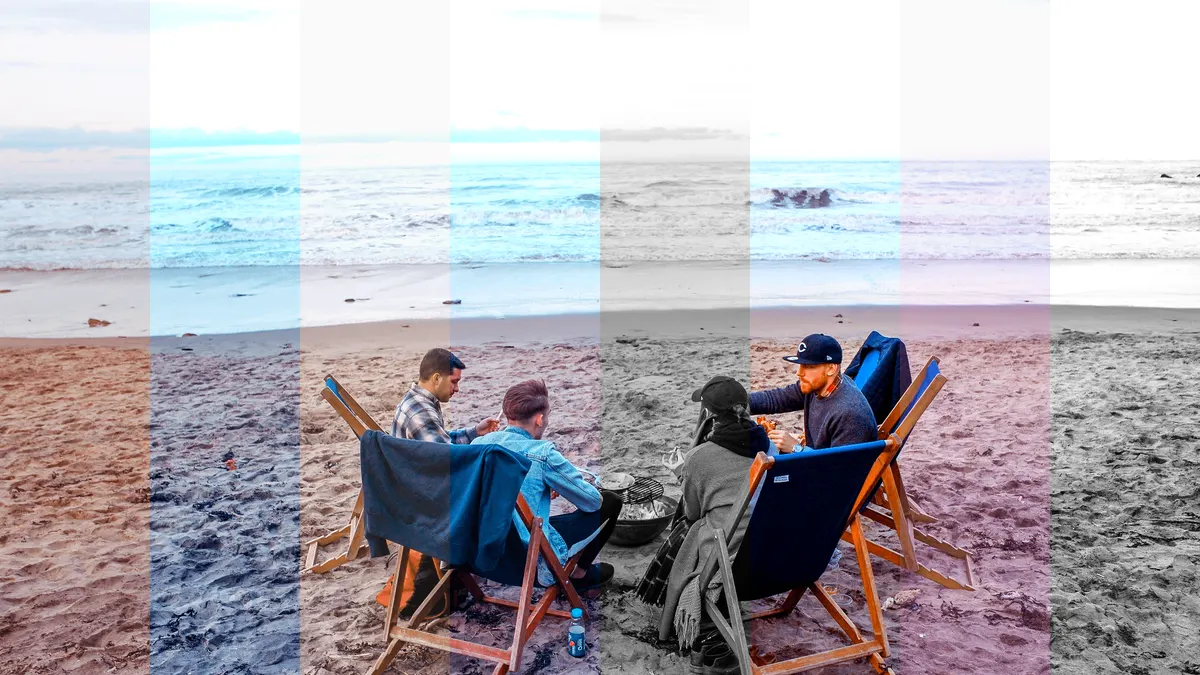
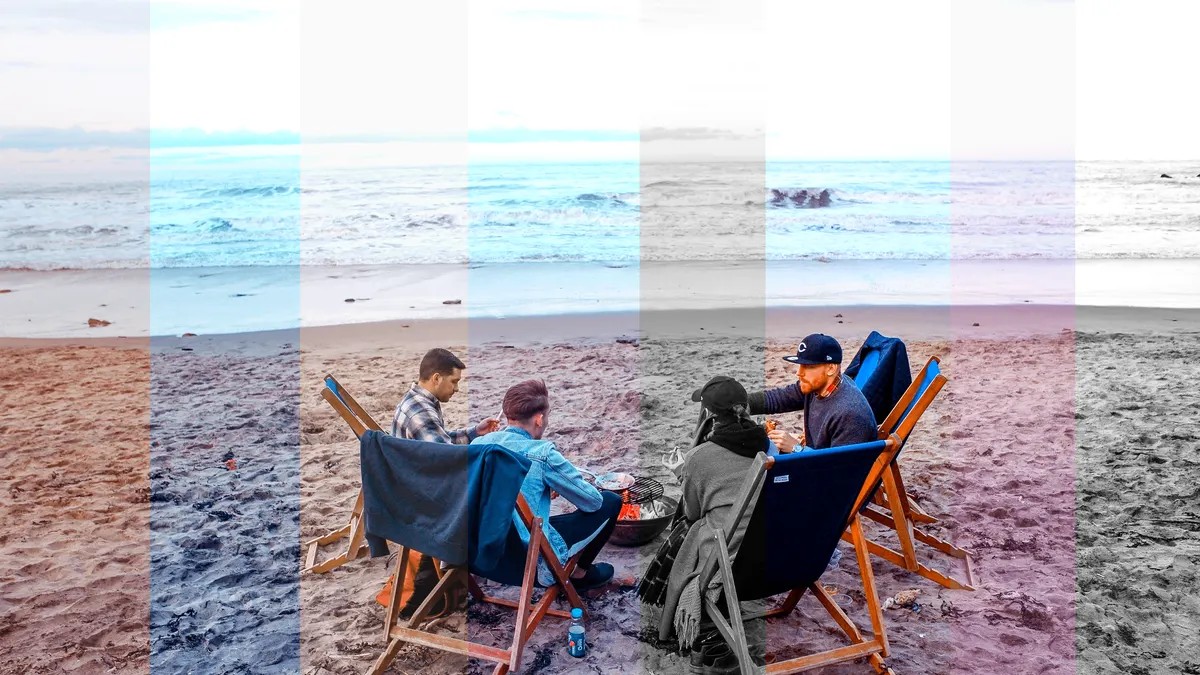
rebuild after the review fixes

diff --git a/index.html b/index.html
@@ -209,10 +209,10 @@
           </picture>
           <figcaption>
             <span class="visually-hidden">The filters in the bands, left to right:</span>
-            <ol class="hero__bands hero__bands--stack" style="--bands: 5">
+            <ol class="hero__bands hero__bands--stack" style="--bands: 5; grid-template-columns: minmax(0, 20fr) minmax(0, 22fr) minmax(0, 27.5fr) minmax(0, 16fr) minmax(0, 14.5fr)">
               <li><a href="#golden-92" aria-label="01, Golden &#39;92">01</a></li><li><a href="#street-cool" aria-label="03, Street Cool">03</a></li><li><a href="#pastel-shoulder" aria-label="09, Pastel Shoulder">09</a></li><li><a href="#riviera-cyanotype" aria-label="17, Riviera Cyanotype">17</a></li><li><a href="#moody-bw" aria-label="20, Moody B&amp;W">20</a></li>
             </ol>
-            <ol class="hero__bands hero__bands--desk" style="--bands: 8">
+            <ol class="hero__bands hero__bands--desk" style="--bands: 8; grid-template-columns: minmax(0, 12.5fr) minmax(0, 12.5fr) minmax(0, 14fr) minmax(0, 14.3fr) minmax(0, 10.5fr) minmax(0, 15.4fr) minmax(0, 10.4fr) minmax(0, 10.4fr)">
               <li><a href="#golden-92" aria-label="01, Golden &#39;92">01</a></li><li><a href="#street-cool" aria-label="03, Street Cool">03</a></li><li><a href="#pastel-shoulder" aria-label="09, Pastel Shoulder">09</a></li><li><a href="#riviera-cyanotype" aria-label="17, Riviera Cyanotype">17</a></li><li><a href="#moody-bw" aria-label="20, Moody B&amp;W">20</a></li><li><a href="#vivid-landscape" aria-label="05, Vivid Landscape">05</a></li><li><a href="#instant-bloom" aria-label="12, Instant Bloom">12</a></li><li><a href="#charcoal-depth" aria-label="22, Charcoal Depth">22</a></li>
             </ol>
           </figcaption>
@@ -1367,7 +1367,7 @@
                   <li class="chip">Blue hour</li><li class="chip">City signs</li><li class="chip">Autumn leaves</li><li class="chip">Tungsten accents</li>
                 </ul>
               </div>
-              <p class="filter__tip">Pulls the reds deep and keeps the shadows from choking. Best when scarlet is the story, and not for close portraits.</p>
+              <p class="filter__tip">Pulls the reds deep and keeps the shadows from choking. Best when scarlet is the story. Skip it for close portraits.</p>
               
 
               <div class="download">
@@ -2794,10 +2794,10 @@ This filter reproduces the film's graceful highlight shoulder and reduced chroma
               <div class="tag-row">
                 <span class="tag-row__label">Tips</span>
                 <ul class="chips">
-                  <li class="chip">Street scenes</li><li class="chip">Street markets</li><li class="chip">Brick facades</li><li class="chip">Hard light</li>
+                  <li class="chip">Street scenes</li><li class="chip">Market stalls</li><li class="chip">Brick facades</li><li class="chip">Hard light</li>
                 </ul>
               </div>
-              <p class="filter__tip">Warm, confident reds without the glare. Brings life to city colour, so skip the global saturation boost.</p>
+              <p class="filter__tip">Warm, confident reds without the glare. Point it at painted signs and red brick in hard sun.</p>
               
 
               <div class="download">
@@ -3898,10 +3898,10 @@ This filter reproduces the film's graceful highlight shoulder and reduced chroma
               <div class="tag-row">
                 <span class="tag-row__label">Tips</span>
                 <ul class="chips">
-                  <li class="chip">Stairwells &amp; alleys</li><li class="chip">Night streets</li><li class="chip">Strong portraits</li>
+                  <li class="chip">Stairwells &amp; alleys</li><li class="chip">Night streets</li><li class="chip">Bold portraits</li>
                 </ul>
               </div>
-              <p class="filter__tip">Heavy blacks and bold shapes. Expose for the midtone you cannot lose and let the rest fall away.</p>
+              <p class="filter__tip">Heavy blacks and bold shapes. Expose for the midtone you cannot lose and push the shadows to solid black.</p>
               
 
               <div class="download">

diff --git a/js/archive.js b/js/archive.js
@@ -289,9 +289,29 @@ export function initArchive(win = window) {
     if (to < 0 || to >= panels.length) return;
     event.preventDefault();
     const fromTab = event.target.closest?.('.index__link');
+    const fromPanel = !fromTab && panels[active].contains(event.target) ? event.target : null;
     select(to);
     if (fromTab) tabs[to].focus();
+    // Focus was on a control in the panel that just hid: move it to the same control in the new one, or its heading.
+    else if (fromPanel) sameControlIn(panels[to], fromPanel).focus({ preventScroll: true });
   });
+
+  function sameControlIn(panel, el) {
+    let selector = null;
+    if (el.matches('a[data-slot]')) selector = `a[data-slot="${el.dataset.slot}"]`;
+    else if (el.matches('a[data-namesave]')) selector = 'a[data-namesave]';
+    else if (el.matches('a[data-step]')) selector = `a[data-step="${el.dataset.step}"]`;
+    else if (el.matches('a.frame')) selector = 'a.frame.is-current';
+    else if (el.matches('summary')) {
+      const kind = ['notes', 'help', 'inspo'].find(c => el.parentElement?.classList.contains(c));
+      if (kind) selector = `details.${kind} > summary`;
+    } else if (el.matches('.install-link')) selector = '.install-link';
+    const match = selector && panel.querySelector(selector);
+    if (match && match.getClientRects().length) return match;
+    const heading = panel.querySelector('.filter__name');
+    if (!heading.hasAttribute('tabindex')) heading.setAttribute('tabindex', '-1');
+    return heading;
+  }
 
   // Previous and Next: anchors without the script, a flip with it. Focus follows to the same control.
   stage.addEventListener('click', event => {

diff --git a/styles/site.css b/styles/site.css
@@ -1607,8 +1607,36 @@ html {
   gap: var(--space-md);
 }
 
+/* The tracker button floats at the top right, where each unit's head sits when it is snapped under the header:
+   keep the name and the Index link clear of it. The desk does this below by starting the column lower. */
+:root[data-js] .filter__head {
+  padding-right: calc(var(--tracker-size) + var(--space-sm));
+}
+
+/* Under 380px the Index link drops its word (still its accessible name) to keep that room. */
+@media (max-width: 379px) {
+  :root[data-js] .filter__head {
+    gap: var(--space-sm);
+  }
+
+  :root[data-js] .filter__to-index {
+    justify-content: center;
+    min-width: 44px;
+  }
+
+  :root[data-js] .filter__to-index span {
+    position: absolute;
+    width: 1px;
+    height: 1px;
+    overflow: hidden;
+    clip-path: inset(50%);
+    white-space: nowrap;
+  }
+}
+
 .filter__name {
-  font-size: var(--text-h1);
+  /* 8vw on small phones, so the longest word ("Transparency") still fits beside Index and the tracker button. */
+  font-size: min(var(--text-h1), 8vw);
   font-weight: 800;
   line-height: 1.05;
   letter-spacing: -0.025em;
@@ -2344,6 +2372,15 @@ html {
 
   .filter__details > * {
     flex: none;
+  }
+
+  /* The head starts under the tracker button rather than beside it, so a long name keeps the column's width. */
+  :root[data-js] .filter__head {
+    padding-right: 0;
+  }
+
+  :root[data-js] .filter__details {
+    padding-top: calc(var(--tracker-top) - var(--header-h) + var(--tracker-size) + var(--space-sm));
   }
 
   .filter__to-index {
